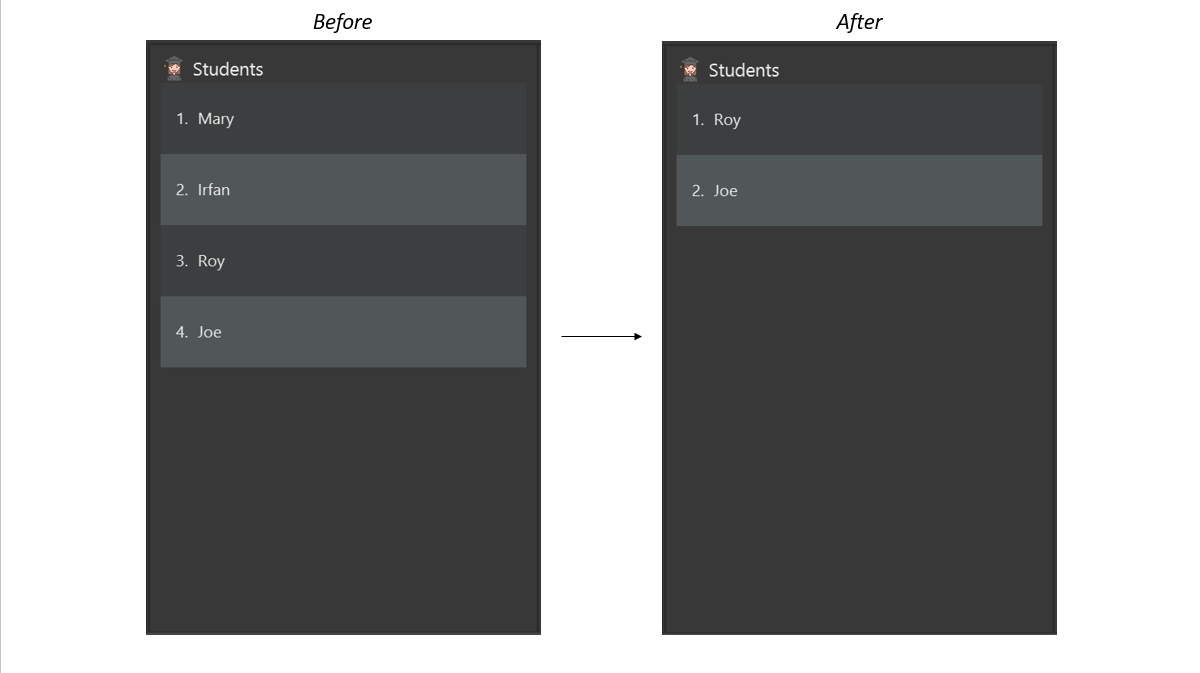
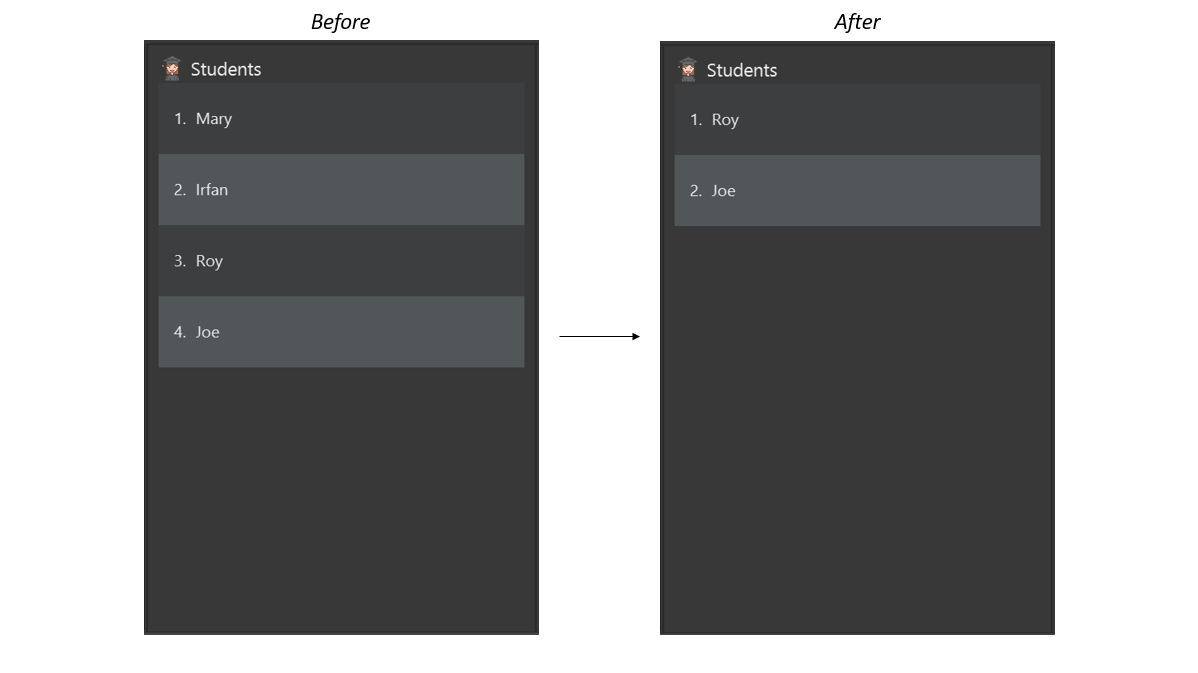
Resize Delete Student screenshot

diff --git a/docs/UserGuide.md b/docs/UserGuide.md
@@ -264,7 +264,7 @@ vs 2
 ```
 
 <p align="center">
-    <img src="/tp/images/student_view.png" alt="view student" width="650" height="180"><br>
+    <img src="images/student_view.png" alt="view student" width="650" height="180"><br>
     <i>Figure 2: Displaying a student's details in the information page</i>
 </p>
 
@@ -280,7 +280,7 @@ or
 vc 3
 ```
 <p align="center">
-    <img src="/tp/images/class_view.png" alt="view class" width="650" height="180"><br>
+    <img src="images/class_view.png" alt="view class" width="650" height="180">
     <i>Figure 3: Displaying details of a class in the information page</i>
 </p>
 
@@ -348,9 +348,12 @@ or
 ```
 del 1 2
 ```
-An example output is shown below: <br>
-![DeleteCommand example](images/DeleteStudentUG.png)
-<p align="center"><i>Figure 4: Example of executing `delete 1 2` command</i></p>
+An example output is shown below:
+
+<p align="center">
+    <img src="images/DeleteStudentUG.png" alt="Delete student" width="650" height="420"><br>
+    <i>Figure 4: Example of executing `delete 1 2` command</i>
+</p>
 
 #### Deleting tuition classes: `deleteclass` | `delc`
 
@@ -428,7 +431,7 @@ Users can add, remove, or edit remarks through the editor window.
 </div>
 
 <p align="center">
-    <img src="/tp/images/remark_editor_student.png" width=520 height=250 alt="Remark editor"><br>
+    <img src="images/remark_editor_student.png" width="520" height="250" alt="Remark editor"><br>
     <i>Figure 5: Editing remarks with editor window</i>
 </p>
 
